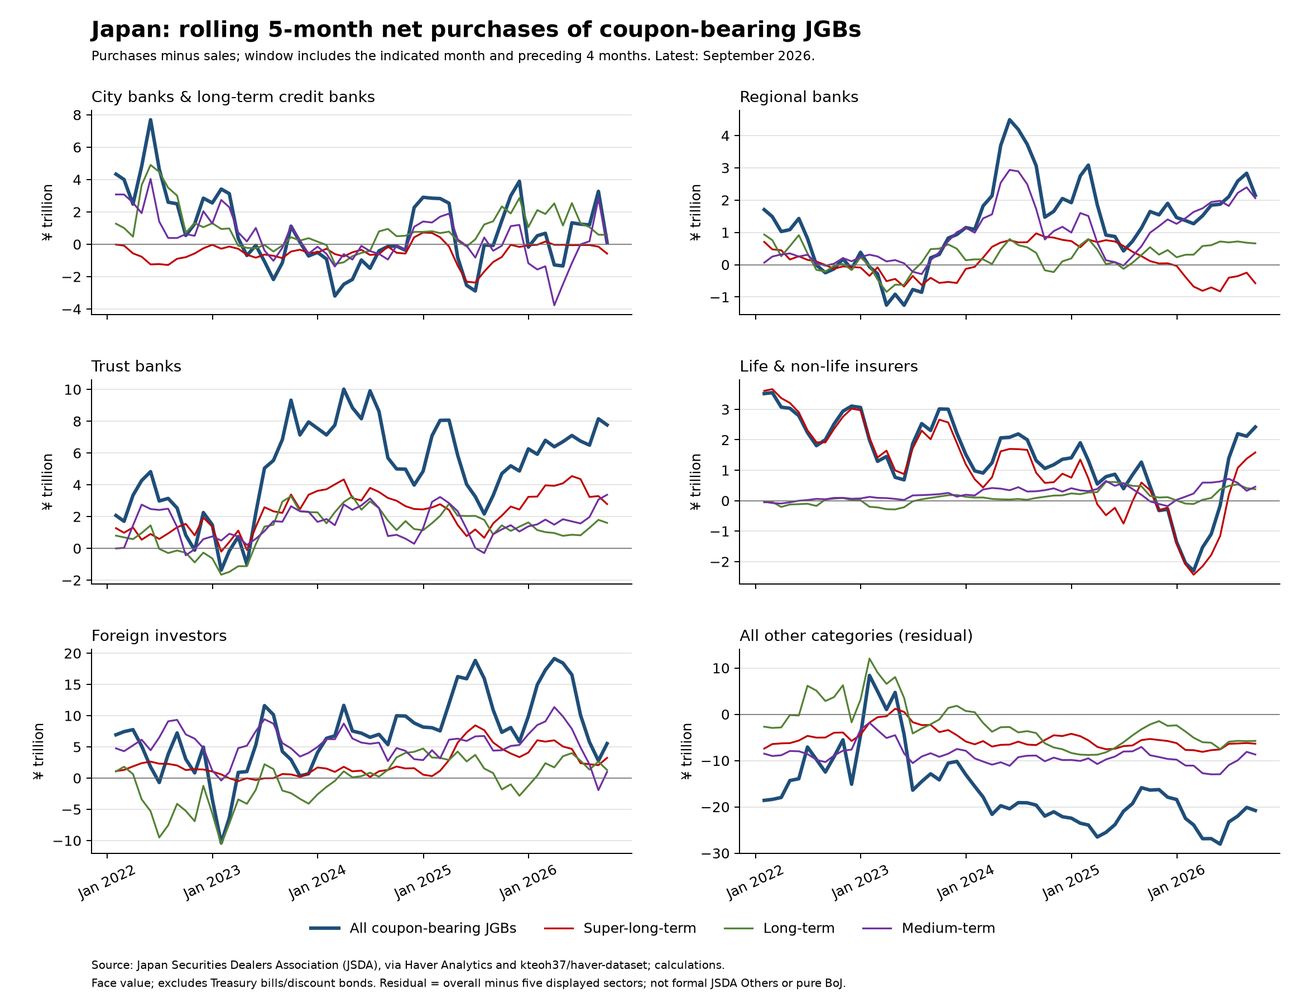
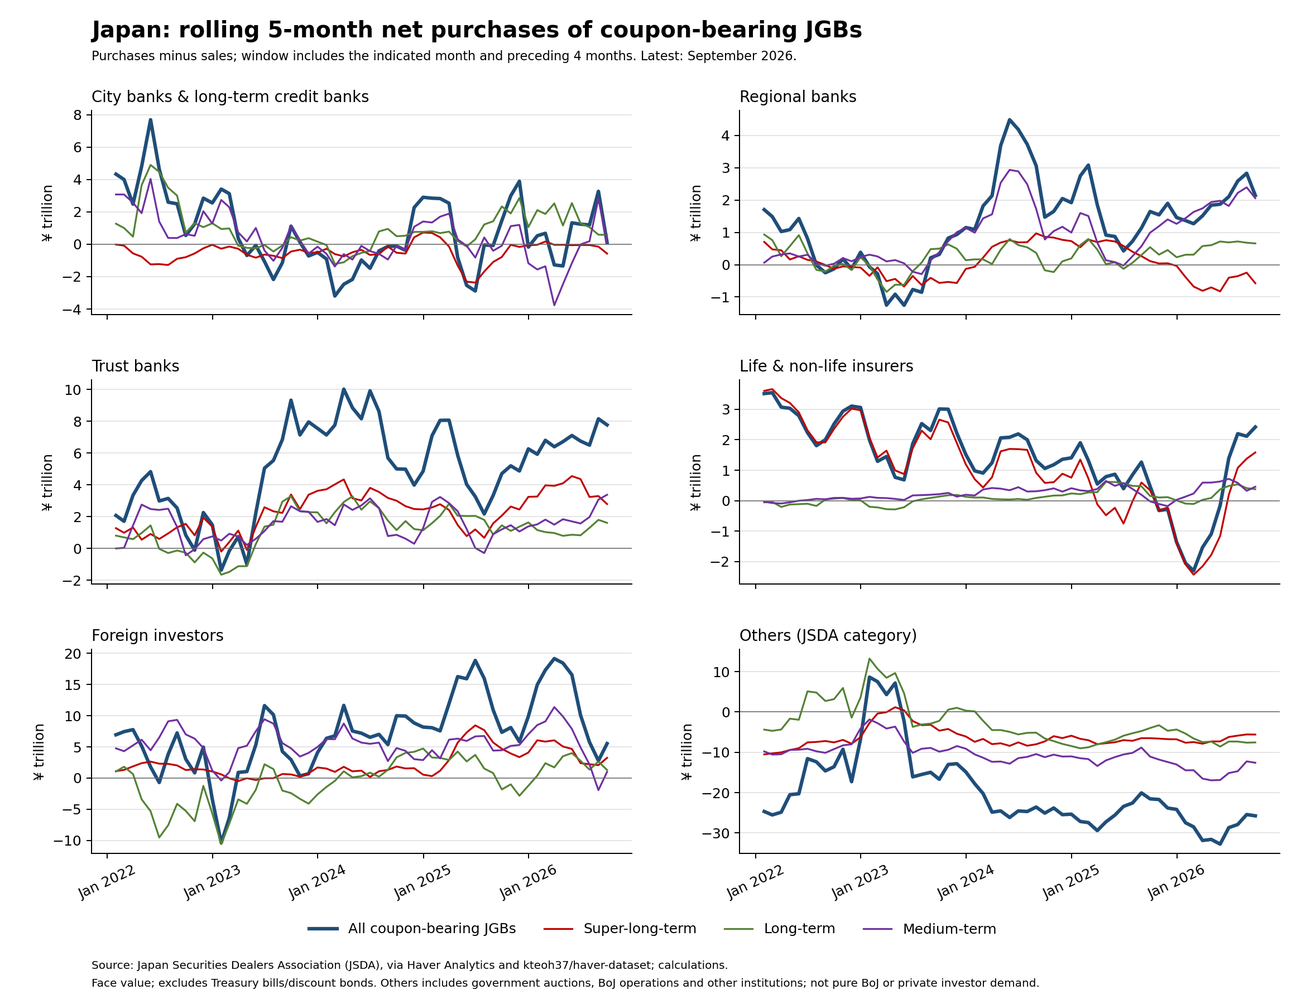
Use directly reported formal JSDA Others instead of residual

diff --git a/public/reports/japan-portfolio/index.html b/public/reports/japan-portfolio/index.html
@@ -1,4 +1,4 @@
 <!doctype html><html lang="en"><head><meta charset="utf-8"><meta name="viewport" content="width=device-width,initial-scale=1"><title>Japan portfolio flows — Daily Market Monitor</title>
 <style>:root{color-scheme:light dark;--bg:#f4f6f8;--fg:#243746;--card:white;--border:#dce4ea;--muted:#596b78;--accent:#183f5c}@media(prefers-color-scheme:dark){:root{--bg:#020617;--fg:#e2e8f0;--card:#0f172a;--border:#475569;--muted:#94a3b8;--accent:#c7d2fe}}*{box-sizing:border-box}body{margin:0;background:var(--bg);color:var(--fg);font:15px/1.55 system-ui,sans-serif}main{max-width:1500px;margin:auto;padding:30px 28px}h1{font-size:29px;color:var(--accent);margin:0 0 8px}h2{font-size:21px;color:var(--accent)}.intro,.source{color:var(--muted)}.card{background:var(--card);border:1px solid var(--border);border-radius:12px;padding:24px;margin:24px 0}.notice{border-left:4px solid #b65330;padding:14px 20px}.source{font-size:12px;overflow-wrap:anywhere}img{width:100%;height:auto;display:block;background:white;border-radius:6px}a{color:var(--accent)}@media(max-width:650px){main{padding:18px 10px}.card{padding:15px 10px}h1{font-size:24px}}</style></head><body><main><p><a href="../../">← Daily Market Monitor</a></p><h1>Japan portfolio flows</h1><p class="intro">Cross-border investment and domestic JGB purchases · yen trillion</p>
-<div class="card notice"><strong>complete / live sources checked</strong><p>Live source check attempted: 2026-10-27T15:28:43.547716+00:00. Observation dates and input vintage are shown per chart. “Unchanged” means values match the previous successful source check; it does not imply a new observation. Failures retain the last complete component and show a warning. Click a chart for its full-resolution PNG.</p></div>
-<section class="card"><h2>Cross-border portfolio flows since 2022</h2><p>Cumulative net purchases from January 2022, yen trillion. Residents: foreign equities +1.47, foreign long-term debt +8.66, foreign short-term debt +0.57. Nonresidents: Japanese equities +19.80, Japanese long-term debt +11.66, Japanese short-term debt -28.97. Positive values mean net purchases; negative values mean net sales.</p><p class="source">MOF weekly securities transactions · Latest observation: 2026-10-17 · Status: unchanged · New periods: 0 · Prior history revised: False · Last successful check: 2026-10-27T15:28:43.547716+00:00 · Final Update  October  22 , 2026</p><p></p><a href="portfolio_flows.png"><img src="portfolio_flows.png" alt="Cross-border portfolio flows since 2022" loading="lazy"></a></section><section class="card"><h2>Cross-border portfolio flows rebased to 2026</h2><p>Cumulative net purchases from January 2026, yen trillion. Residents: foreign equities +2.58, foreign long-term debt -5.18, foreign short-term debt -0.48. Nonresidents: Japanese equities +8.72, Japanese long-term debt +10.34, Japanese short-term debt -16.87. Positive values mean net purchases; negative values mean net sales.</p><p class="source">MOF weekly securities transactions · Latest observation: 2026-10-17 · Status: unchanged · New periods: 0 · Prior history revised: False · Last successful check: 2026-10-27T15:28:43.547716+00:00 · Final Update  October  22 , 2026</p><p></p><a href="portfolio_flows_recent.png"><img src="portfolio_flows_recent.png" alt="Cross-border portfolio flows rebased to 2026" loading="lazy"></a></section><section class="card"><h2>Who is buying coupon-bearing JGBs?</h2><p>Rolling five calendar month net purchases, yen trillion; displayed since 2022. Latest all coupon-bearing totals — All other categories (residual): -20.79; City banks &amp; long-term credit banks: +0.11; Foreign investors: +5.53; Life &amp; non-life insurers: +2.42; Regional banks: +2.15; Trust banks: +7.77. Super-long-, long- and medium-term maturity groups are shown separately. Nominal/face value; excludes Treasury bills and discount bonds. All other categories (residual) equals overall purchases minus the five displayed sectors’ purchases, and likewise for sales, separately by maturity, before netting and rolling. It includes formal JSDA Others (government auctions, BoJ operations and other entities), bond dealers, and other financial/nonfinancial categories. It is not formal JSDA Others, pure BoJ activity or private investor demand.</p><p class="source">JSDA via Haver Analytics · Latest observation: 2026-09-30 · Status: unchanged · New periods: 0 · Prior history revised: False · Last successful check: 2026-10-27T15:28:43.547716+00:00 · Haver snapshot: 2026-10-27T14:45:32+00:00 · Source commit: 42b22b98e51902a61cbb7ae62354f2d2f31cd6ed</p><p></p><a href="jsda/rolling_jgb_purchases.png"><img src="jsda/rolling_jgb_purchases.png" alt="Who is buying coupon-bearing JGBs?" loading="lazy"></a></section><section class="card"><h2>Interpretation and updates</h2><p>Domestic JGB buying and foreign-security sales do not identify the same investors and cannot by themselves establish repatriation. MOF long-term debt includes securities beyond JGBs. Cumulative flows measure transactions, not holdings or valuation gains. MOF full weeks are allocated by week-end date; JSDA uses five calendar months, never five nonmissing observations.</p><p>The daily dashboard refreshes at 13:00 and 22:00 UTC. Portfolio charts refresh Thursdays at 10:00 America/New_York (GitHub scheduling is best effort). Every check uses official MOF data and one commit-pinned Haver snapshot; Haver is an upstream snapshot, not a direct vendor refresh. Last successful observation dates remain visible if a component fails.</p></section></main></body></html>
+<div class="card notice"><strong>complete / live sources checked</strong><p>Live source check attempted: 2026-10-27T16:09:25.101929+00:00. Observation dates and input vintage are shown per chart. “Unchanged” means values match the previous successful source check; it does not imply a new observation. Failures retain the last complete component and show a warning. Click a chart for its full-resolution PNG.</p></div>
+<section class="card"><h2>Cross-border portfolio flows since 2022</h2><p>Cumulative net purchases from January 2022, yen trillion. Residents: foreign equities +1.47, foreign long-term debt +8.66, foreign short-term debt +0.57. Nonresidents: Japanese equities +19.80, Japanese long-term debt +11.66, Japanese short-term debt -28.97. Positive values mean net purchases; negative values mean net sales.</p><p class="source">MOF weekly securities transactions · Latest observation: 2026-10-17 · Status: unchanged · New periods: 0 · Prior history revised: False · Last successful check: 2026-10-27T16:09:25.101929+00:00 · Final Update  October  22 , 2026</p><p></p><a href="portfolio_flows.png"><img src="portfolio_flows.png" alt="Cross-border portfolio flows since 2022" loading="lazy"></a></section><section class="card"><h2>Cross-border portfolio flows rebased to 2026</h2><p>Cumulative net purchases from January 2026, yen trillion. Residents: foreign equities +2.58, foreign long-term debt -5.18, foreign short-term debt -0.48. Nonresidents: Japanese equities +8.72, Japanese long-term debt +10.34, Japanese short-term debt -16.87. Positive values mean net purchases; negative values mean net sales.</p><p class="source">MOF weekly securities transactions · Latest observation: 2026-10-17 · Status: unchanged · New periods: 0 · Prior history revised: False · Last successful check: 2026-10-27T16:09:25.101929+00:00 · Final Update  October  22 , 2026</p><p></p><a href="portfolio_flows_recent.png"><img src="portfolio_flows_recent.png" alt="Cross-border portfolio flows rebased to 2026" loading="lazy"></a></section><section class="card"><h2>Who is buying coupon-bearing JGBs?</h2><p>Rolling five calendar month net purchases, yen trillion; displayed since 2022. Latest all coupon-bearing totals — City banks &amp; long-term credit banks: +0.11; Foreign investors: +5.53; Life &amp; non-life insurers: +2.42; Others (JSDA category): -25.75; Regional banks: +2.15; Trust banks: +7.77. Super-long-, long- and medium-term maturity groups are shown separately. Nominal/face value; excludes Treasury bills and discount bonds. Others (JSDA category) uses the six directly reported Others purchase/sale series, not overall minus the displayed sectors. This mixed category includes government auction allocations, BoJ operations and other institutions. It is not pure BoJ activity or aggregate private investor demand. Net purchases are purchases minus sales from the investor/counterparty perspective.</p><p class="source">JSDA via Haver Analytics · Latest observation: 2026-09-30 · Status: definition updated / comparison baseline reset · New periods: baseline established · Prior history revised: False · Last successful check: 2026-10-27T16:09:25.101929+00:00 · Haver snapshot: 2026-10-27T15:30:12+00:00 · Source commit: 074dcfe4561a15bbd37a59e05f33df341b8ff2ac</p><p></p><a href="jsda/rolling_jgb_purchases.png"><img src="jsda/rolling_jgb_purchases.png" alt="Who is buying coupon-bearing JGBs?" loading="lazy"></a></section><section class="card"><h2>Interpretation and updates</h2><p>Domestic JGB buying and foreign-security sales do not identify the same investors and cannot by themselves establish repatriation. MOF long-term debt includes securities beyond JGBs. Cumulative flows measure transactions, not holdings or valuation gains. MOF full weeks are allocated by week-end date; JSDA uses five calendar months, never five nonmissing observations.</p><p>The daily dashboard refreshes at 13:00 and 22:00 UTC. Portfolio charts refresh Thursdays at 10:00 America/New_York (GitHub scheduling is best effort). Every check uses official MOF data and one commit-pinned Haver snapshot; Haver is an upstream snapshot, not a direct vendor refresh. Last successful observation dates remain visible if a component fails.</p></section></main></body></html>

diff --git a/scripts/portfolio_jsda.py b/scripts/portfolio_jsda.py
@@ -4,10 +4,9 @@ import json
 import logging
 import os
 from pathlib import Path
-SECTORS = {'CLB': 'City banks & long-term credit banks', 'RB': 'Regional banks', 'TB': 'Trust banks', 'LI': 'Life & non-life insurers', 'F': 'Foreign investors', '': 'Overall total (all investor categories)'}
-OVERALL_LABEL = SECTORS['']
-RESIDUAL_LABEL = 'All other categories (residual)'
-DISPLAY_SECTORS = [v for k,v in SECTORS.items() if k] + [RESIDUAL_LABEL]
+SECTORS = {'CLB': 'City banks & long-term credit banks', 'RB': 'Regional banks', 'TB': 'Trust banks', 'LI': 'Life & non-life insurers', 'F': 'Foreign investors', 'O': 'Others (JSDA category)'}
+OTHERS_LABEL = SECTORS['O']
+DISPLAY_SECTORS = list(SECTORS.values())
 MATURITIES = {'S': 'Super-long-term', 'L': 'Long-term', 'M': 'Medium-term'}
 
 def calculate(raw_data, raw_metadata, window=5):
@@ -41,10 +40,19 @@ def calculate(raw_data, raw_metadata, window=5):
                 if code not in data or code not in metadata.index:
                     raise ValueError('Missing required series: ' + code)
                 row = metadata.loc[code]
-                description = str(row['Series Name']).lower()
+                name = row.get('Series Name')
+                if pd.isna(name) or not str(name).strip():
+                    name = row.get('descriptor')
+                if pd.isna(name) or not str(name).strip():
+                    raise ValueError('Missing transaction/units description for ' + code)
+                description = str(name).lower()
                 if (str(row['shortsource']).upper() != 'JSDA' or str(row['frequency']).upper() != 'M'
                         or '100 mil.yen' not in description or action not in description):
                     raise ValueError('Unexpected source/frequency/units/transaction metadata for ' + code)
+                if sector == 'O' and ('others' not in description or
+                        {'S': 'super long term', 'L': 'long term', 'M': 'medium term'}[maturity] not in description or
+                        (maturity == 'L' and 'super long term' in description)):
+                    raise ValueError('Unexpected formal Others/maturity description for ' + code)
             gross = data[[purchase, sale]].astype(float)
             if (gross < 0).any().any() or np.isinf(gross.to_numpy()).any():
                 raise ValueError('Negative or infinite gross transaction amount')
@@ -53,18 +61,6 @@ def calculate(raw_data, raw_metadata, window=5):
                 'sales_100million_yen': gross[sale].to_numpy(),
                 'net_100million_yen': (gross[purchase] - gross[sale]).to_numpy()}))
     monthly = pd.concat(parts, ignore_index=True)
-    # Derive each gross flow BEFORE netting/rolling. All five components are required.
-    fields = ['purchases_100million_yen', 'sales_100million_yen', 'net_100million_yen']
-    keys = ['month', 'maturity']
-    overall = monthly[monthly.sector.eq(OVERALL_LABEL)].set_index(keys)[fields]
-    named = monthly[~monthly.sector.eq(OVERALL_LABEL)].groupby(keys)[fields].sum(min_count=5)
-    residual = overall - named
-    if (residual[['purchases_100million_yen','sales_100million_yen']] < 0).any().any():
-        raise ValueError('Residual gross purchases/sales are negative; check source reconciliation')
-    residual['net_100million_yen'] = residual['purchases_100million_yen'] - residual['sales_100million_yen']
-    residual = residual.reset_index()
-    residual['sector'] = RESIDUAL_LABEL
-    monthly = pd.concat([monthly, residual], ignore_index=True)
     # Sum the three coupon-bearing maturity classes, requiring all three observations.
     total = monthly.groupby(['month', 'sector'])[['purchases_100million_yen', 'sales_100million_yen', 'net_100million_yen']].sum(min_count=3).reset_index()
     total['maturity'] = 'All coupon-bearing JGBs'
@@ -124,7 +120,7 @@ def outputs(frame, start, window, output):
     handles, legends = axes.flat[0].get_legend_handles_labels()
     fig.legend(handles, legends, loc='lower center', bbox_to_anchor=(.5, .055), ncol=4, frameon=False)
     fig.text(.07, .035, source, fontsize=8)
-    fig.text(.07, .017, 'Face value; excludes Treasury bills/discount bonds. Residual = overall minus five displayed sectors; not formal JSDA Others or pure BoJ.', fontsize=8)
+    fig.text(.07, .017, 'Face value; excludes Treasury bills/discount bonds. Others includes government auctions, BoJ operations and other institutions; not pure BoJ or private investor demand.', fontsize=8)
     fig.subplots_adjust(top=.89, bottom=.15, left=.07, right=.98, hspace=.32, wspace=.20)
     png = io.BytesIO()
     fig.savefig(png, format='png', dpi=180)

diff --git a/scripts/test_portfolio_report.py b/scripts/test_portfolio_report.py
@@ -12,7 +12,7 @@ class PortfolioTests(unittest.TestCase):
   b=report.compare_periods({'2026-01-01':[1]},a);self.assertEqual(b['status'],'unchanged')
   c=report.compare_periods({'2026-01-01':[1],'2026-01-08':[2]},a);self.assertEqual(c['status'],'new');self.assertEqual(c['new_periods'],1)
   d=report.compare_periods({'2026-01-01':[3],'2026-01-08':[2]},a);self.assertEqual(d['status'],'revised');self.assertTrue(d['prior_history_revised'])
- def test_calendar_window_and_separate_overall_total(self):
+ def test_calendar_window_and_direct_others_with_descriptor_fallback(self):
   import io
   import pandas as pd
   import portfolio_jsda as jsda
@@ -21,8 +21,8 @@ class PortfolioTests(unittest.TestCase):
   for sector in jsda.SECTORS:
    for maturity in jsda.MATURITIES:
     for action,value,word in [('P',2.,'purchases'),('S',1.,'sales')]:
-     code=f'GB{maturity}{sector}{action}@JAPAN';columns[code]=[value if sector else value*6]*8
-     metadata.append({'Series Code':code,'Series Name':f'{word} (100 Mil.Yen)','shortsource':'JSDA','frequency':'M'})
+     code=f'GB{maturity}{sector}{action}@JAPAN';columns[code]=[value]*8
+     metadata.append({'Series Code':code,'Series Name':None if sector=='O' else f'{word} (100 Mil.Yen)','descriptor':f'{word} of '+{'S':'super long term','L':'long term','M':'medium term'}[maturity]+' government bonds: Others (100 Mil.Yen)','shortsource':'JSDA','frequency':'M'})
   data=pd.DataFrame(columns,index=months);meta=pd.DataFrame(metadata)
   def encode(frame):
    out=io.BytesIO();frame.to_parquet(out);return out.getvalue()
@@ -33,21 +33,26 @@ class PortfolioTests(unittest.TestCase):
    jsda.calculate(encode(data),encode(badmeta),5)
   frame=jsda.calculate(encode(data),encode(meta),5)
   totals=frame[(frame.month==months[-1])&frame.maturity.eq('All coupon-bearing JGBs')]
-  self.assertEqual(len(totals),7)
+  self.assertEqual(len(totals),6)
   shown=totals[totals.sector.isin(jsda.DISPLAY_SECTORS)]
   self.assertEqual(len(shown),6)
   self.assertTrue((shown.rolling_net_trillion_yen==.0015).all())
-  fields=['purchases_100million_yen','sales_100million_yen','net_100million_yen','rolling_net_trillion_yen']
-  for (month,maturity),group in frame.groupby(['month','maturity']):
-   overall=group[group.sector.eq(jsda.OVERALL_LABEL)].iloc[0]
-   displayed=group[group.sector.isin(jsda.DISPLAY_SECTORS)]
-   for field in fields:
-    expected=overall[field]
-    if pd.notna(expected):self.assertAlmostEqual(displayed[field].sum(min_count=6),expected)
+  # Descriptor fallback still validates units, transaction and the precise Others category.
+  for descriptor in ['purchases super long term Others (USD)', 'sales super long term Others (100 Mil.Yen)', 'purchases super long term Total (100 Mil.Yen)', None]:
+   bad=meta.copy();bad.loc[bad['Series Code'].eq('GBSOP@JAPAN'),'descriptor']=descriptor
+   with self.assertRaises(ValueError):jsda.calculate(encode(data),encode(bad),5)
+  wrong_maturity=meta.copy();wrong_maturity.loc[wrong_maturity['Series Code'].eq('GBLOP@JAPAN'),'descriptor']='purchases super long term Others (100 Mil.Yen)'
+  with self.assertRaises(ValueError):jsda.calculate(encode(data),encode(wrong_maturity),5)
+  # Overall columns are deliberately ignored; no residual can be substituted.
+  with_totals=data.copy()
+  for maturity in jsda.MATURITIES:
+   with_totals[f'GB{maturity}P@JAPAN']=10000.
+   with_totals[f'GB{maturity}S@JAPAN']=1.
+  pd.testing.assert_frame_equal(frame,jsda.calculate(encode(with_totals),encode(meta),5))
   missing=data.copy();missing.iloc[4,1]=float('nan')
   incomplete=jsda.calculate(encode(missing),encode(meta),5)
-  residual=incomplete[incomplete.sector.eq(jsda.RESIDUAL_LABEL)&incomplete.month.eq(months[4])]
-  self.assertTrue(residual.rolling_net_trillion_yen.isna().any())
+  affected=incomplete[incomplete.month.eq(months[4])]
+  self.assertTrue(affected.rolling_net_trillion_yen.isna().any())
   # A missing calendar month must invalidate windows, never collapse to five observations.
   gap=jsda.calculate(encode(data.drop(months[4])),encode(meta),5)
   self.assertTrue(gap[gap.month==months[-1]].rolling_net_trillion_yen.isna().all())

diff --git a/scripts/refresh_portfolio_report.py b/scripts/refresh_portfolio_report.py
@@ -75,7 +75,7 @@ def jsda_component(stage, previous, folder, commit):
     # Fingerprints use transaction levels, not rolling sums; revisions remain detectable.
     periods = {str(month.date()): group.sort_values(['sector','maturity'])[['sector','maturity','purchases_100million_yen','sales_100million_yen']].to_json(orient='values',double_precision=10)
                for month,group in frame.groupby('month')}
-    definition = 'five-sectors-plus-residual-v1'
+    definition = 'five-sectors-plus-jsda-others-v1'
     changed_definition = previous.get('definition') != definition
     state = compare_periods(periods, {} if changed_definition else previous)
     if changed_definition:
@@ -90,7 +90,7 @@ def jsda_component(stage, previous, folder, commit):
     values='; '.join(f'{r.sector}: {r.rolling_net_trillion_yen:+.2f}' for r in totals.itertuples())
     card=dict(file='jsda/rolling_jgb_purchases.png',title='Who is buying coupon-bearing JGBs?',description=(
         'Rolling five calendar month net purchases, yen trillion; displayed since 2022. Latest all coupon-bearing totals — '+values+
-        '. Super-long-, long- and medium-term maturity groups are shown separately. Nominal/face value; excludes Treasury bills and discount bonds. All other categories (residual) equals overall purchases minus the five displayed sectors’ purchases, and likewise for sales, separately by maturity, before netting and rolling. It includes formal JSDA Others (government auctions, BoJ operations and other entities), bond dealers, and other financial/nonfinancial categories. It is not formal JSDA Others, pure BoJ activity or private investor demand.'))
+        '. Super-long-, long- and medium-term maturity groups are shown separately. Nominal/face value; excludes Treasury bills and discount bonds. Others (JSDA category) uses the six directly reported Others purchase/sale series, not overall minus the displayed sectors. This mixed category includes government auction allocations, BoJ operations and other institutions. It is not pure BoJ activity or aggregate private investor demand. Net purchases are purchases minus sales from the investor/counterparty perspective.'))
     snapshot=json.loads((folder/'snapshot_manifest.json').read_text())
     state.update(cards=[card],source='JSDA via Haver Analytics',source_commit=commit,snapshot_utc=snapshot['snapshot_utc'],
                  stale=(date.today()-latest.date()).days>75)

diff --git a/scripts/audit_portfolio_export.py b/scripts/audit_portfolio_export.py
@@ -16,7 +16,7 @@ for component in state['components'].values():
 if '<script' in (FOLDER/'index.html').read_text().lower():raise ValueError('Portfolio HTML must contain prose and images only')
 
 jsda=state['components']['JSDA']
-if jsda.get('definition') != 'five-sectors-plus-residual-v1':raise ValueError('JSDA report must use the residual definition')
-if 'All other categories (residual)' not in jsda['cards'][0]['description'] or 'Overall total (all investor categories):' in jsda['cards'][0]['description']:raise ValueError('JSDA description does not match residual chart')
+if jsda.get('definition') != 'five-sectors-plus-jsda-others-v1':raise ValueError('JSDA report must use the formal JSDA Others definition')
+if 'Others (JSDA category)' not in jsda['cards'][0]['description'] or 'All other categories (residual)' in jsda['cards'][0]['description'] or 'Overall total (all investor categories):' in jsda['cards'][0]['description']:raise ValueError('JSDA description does not match formal JSDA Others chart')
 
 print('Approved export: three PNGs, HTML descriptions, compact display manifest; no raw snapshot or state history.')

diff --git a/docs/portfolio-integration.md b/docs/portfolio-integration.md
@@ -4,7 +4,7 @@ The public report is `public/reports/japan-portfolio/index.html`, linked as **Ja
 
 The existing daily-monitor deployment workflow owns refresh/publication. Its single commit-pinned Haver checkout supplies daily dashboard series, policy-report data and monthly JSDA series. MOF is downloaded live from the official HTTPS endpoint. Reviewed parser/calculation code is adapted from `kteoh37/japan-portfolio-tracker`; no cross-repo tracker access, extra credential, private tracker schedule or ChatGPT task change is required.
 
-MOF preserves January 2022 and January 2026 cumulative baselines, allocating full weeks by week-end date. JSDA preserves rolling five CALENDAR months, five named sectors plus All other categories (residual), medium-/long-/super-long-term coupon JGB groups, yen trillion, nominal/face value, excluding Treasury bills and discount bonds. The residual subtracts the five displayed sectors from overall purchases and sales separately by month/maturity, then nets and rolls. It includes formal JSDA Others, bond dealers and other categories; it is not a pure BoJ series. All inputs must be present. Overall totals remain internal reconciliation inputs. Transactions do not identify same-investor repatriation.
+MOF preserves January 2022 and January 2026 cumulative baselines, allocating full weeks by week-end date. JSDA preserves rolling five CALENDAR months, five named sectors plus Others (JSDA category), medium-/long-/super-long-term coupon JGB groups, yen trillion, nominal/face value, excluding Treasury bills and discount bonds. Formal Others uses `GBSOP/GBSOS`, `GBLOP/GBLOS`, and `GBMOP/GBMOS` (all `@JAPAN`), directly reported purchases minus sales. It includes government auction allocations, BoJ operations and other institutions; it is not pure BoJ or private investor demand. No overall-minus-five residual is calculated. Native monthly frequency, JSDA source, units, transaction direction and Others/maturity descriptor are all validated, with descriptor fallback only when Series Name is absent. All inputs must be present. Transactions do not identify same-investor repatriation.
 
 Every refresh stages each complete component before promotion. Failures preserve all of that component's last good PNGs/descriptions and display a failed/stale warning with separate attempt and last-success timestamps. Partial updates can deploy the warning but mark the workflow failed afterward. Source regression, invalid units/frequency and missing rolling-window months are rejected. MOF older than 21 days or JSDA older than 75 days is flagged stale; unchanged inputs still show observation age.
 
@@ -14,4 +14,4 @@ The workflow commits ONLY the explicit five-file export using the platform's exi
 
 Daily dashboard cadence stays 13:00/22:00 UTC. Weekly portfolio cron is enabled only after a successful manual live cloud run. Two UTC candidates plus an America/New_York hour/day gate preserve Thursday 10:00 across daylight saving time, with the wrong-hour run skipped. GitHub cron is best effort and can run late. Manual refresh remains available with workflow_dispatch `refresh_portfolio=true`.
 
-A versioned JSDA definition resets the comparison fingerprint when changing from overall to residual; it is not a source-data revision. PNGs always regenerate even when source values are unchanged.
+A versioned JSDA definition resets the comparison fingerprint when changing to formal JSDA Others; it is not a source-data revision. PNGs always regenerate even when source values are unchanged.
